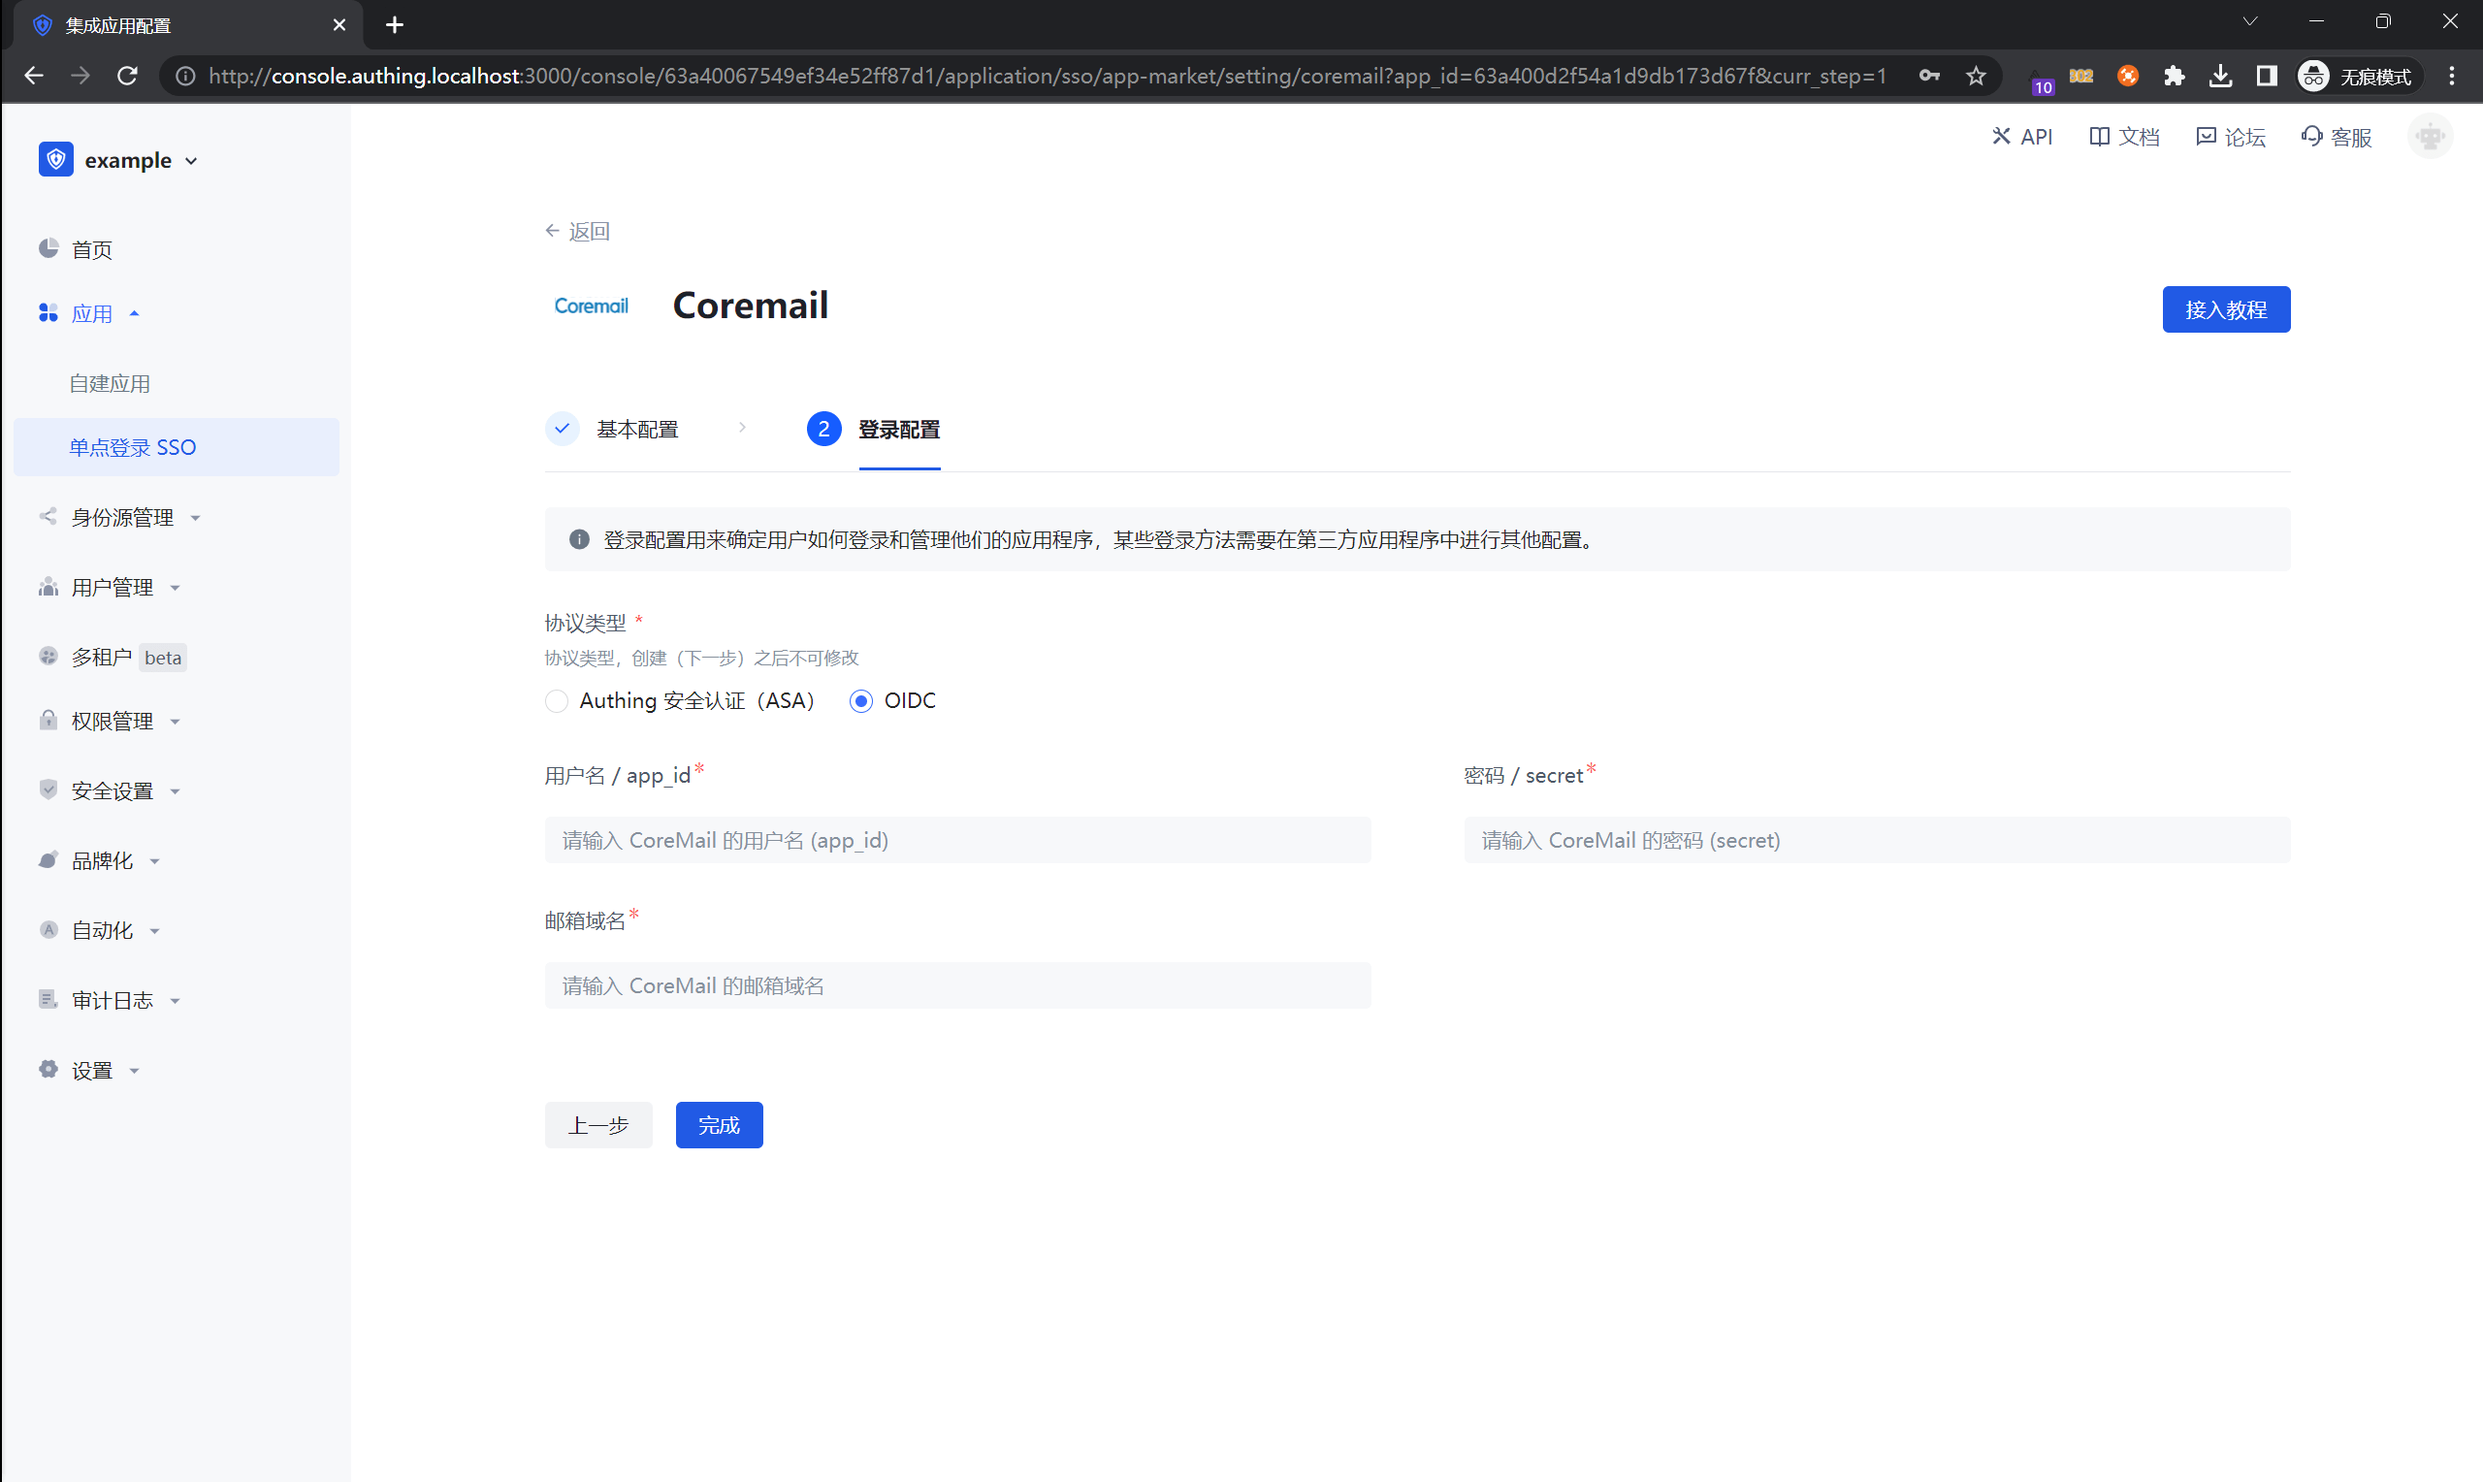
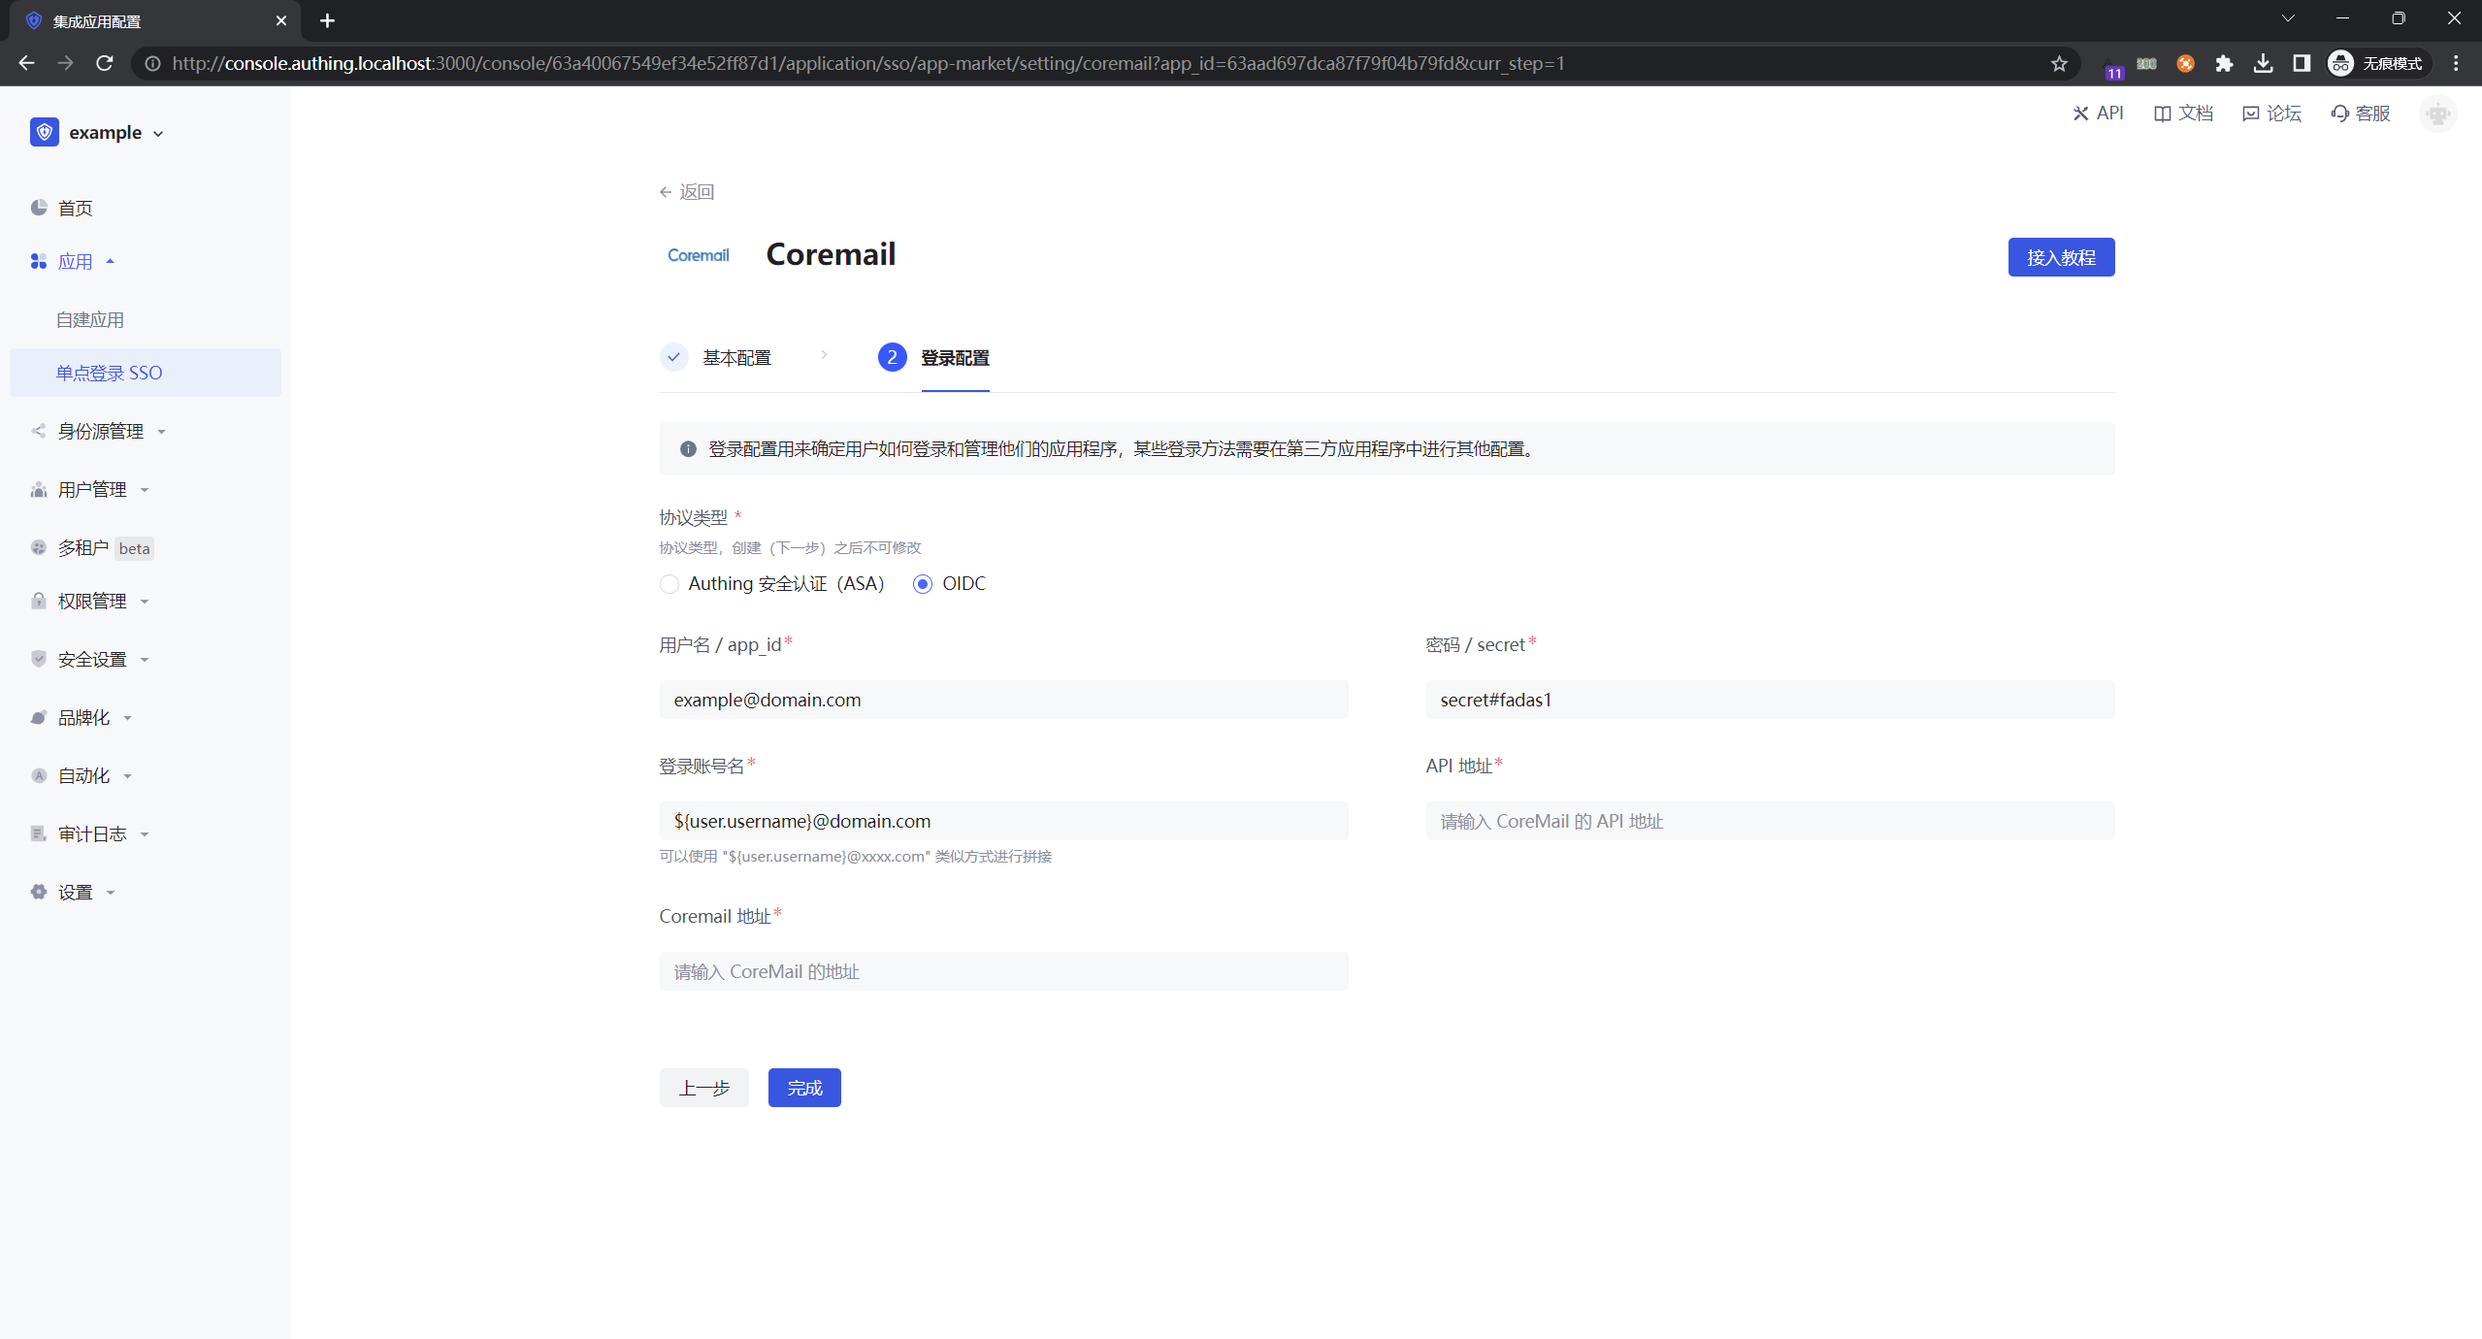
feat: Coremail/更新 SSO 文档

diff --git a/docs/integration/coremail/0.md b/docs/integration/coremail/0.md
@@ -8,12 +8,16 @@
 
 <img src="../../images/integration/coremail/1-2.png" class="md-img-padding" />
 
-输入你的 **用户名 / app_id** 、**密码 / secret** 及 **邮箱域名**。
+输入你的 **用户名 / app_id** 、**密码 / secret** 、**登录账号名** 及 **API 地址**。
 
 <img src="../../images/integration/coremail/1-3.png" class="md-img-padding" />
 
-点击完成，在访问授权页点击「允许所有用户访问」。
+你可以通过登录 Coremail 后进入邮箱界面，复制地址栏如图所示内容来获取 Coremail 地址。
 
 <img src="../../images/integration/coremail/1-4.png" class="md-img-padding" />
+
+点击完成，在访问授权页点击「允许所有用户访问」。
+
+<img src="../../images/integration/coremail/1-5.png" class="md-img-padding" />
 
 </IntegrationDetailCard>
